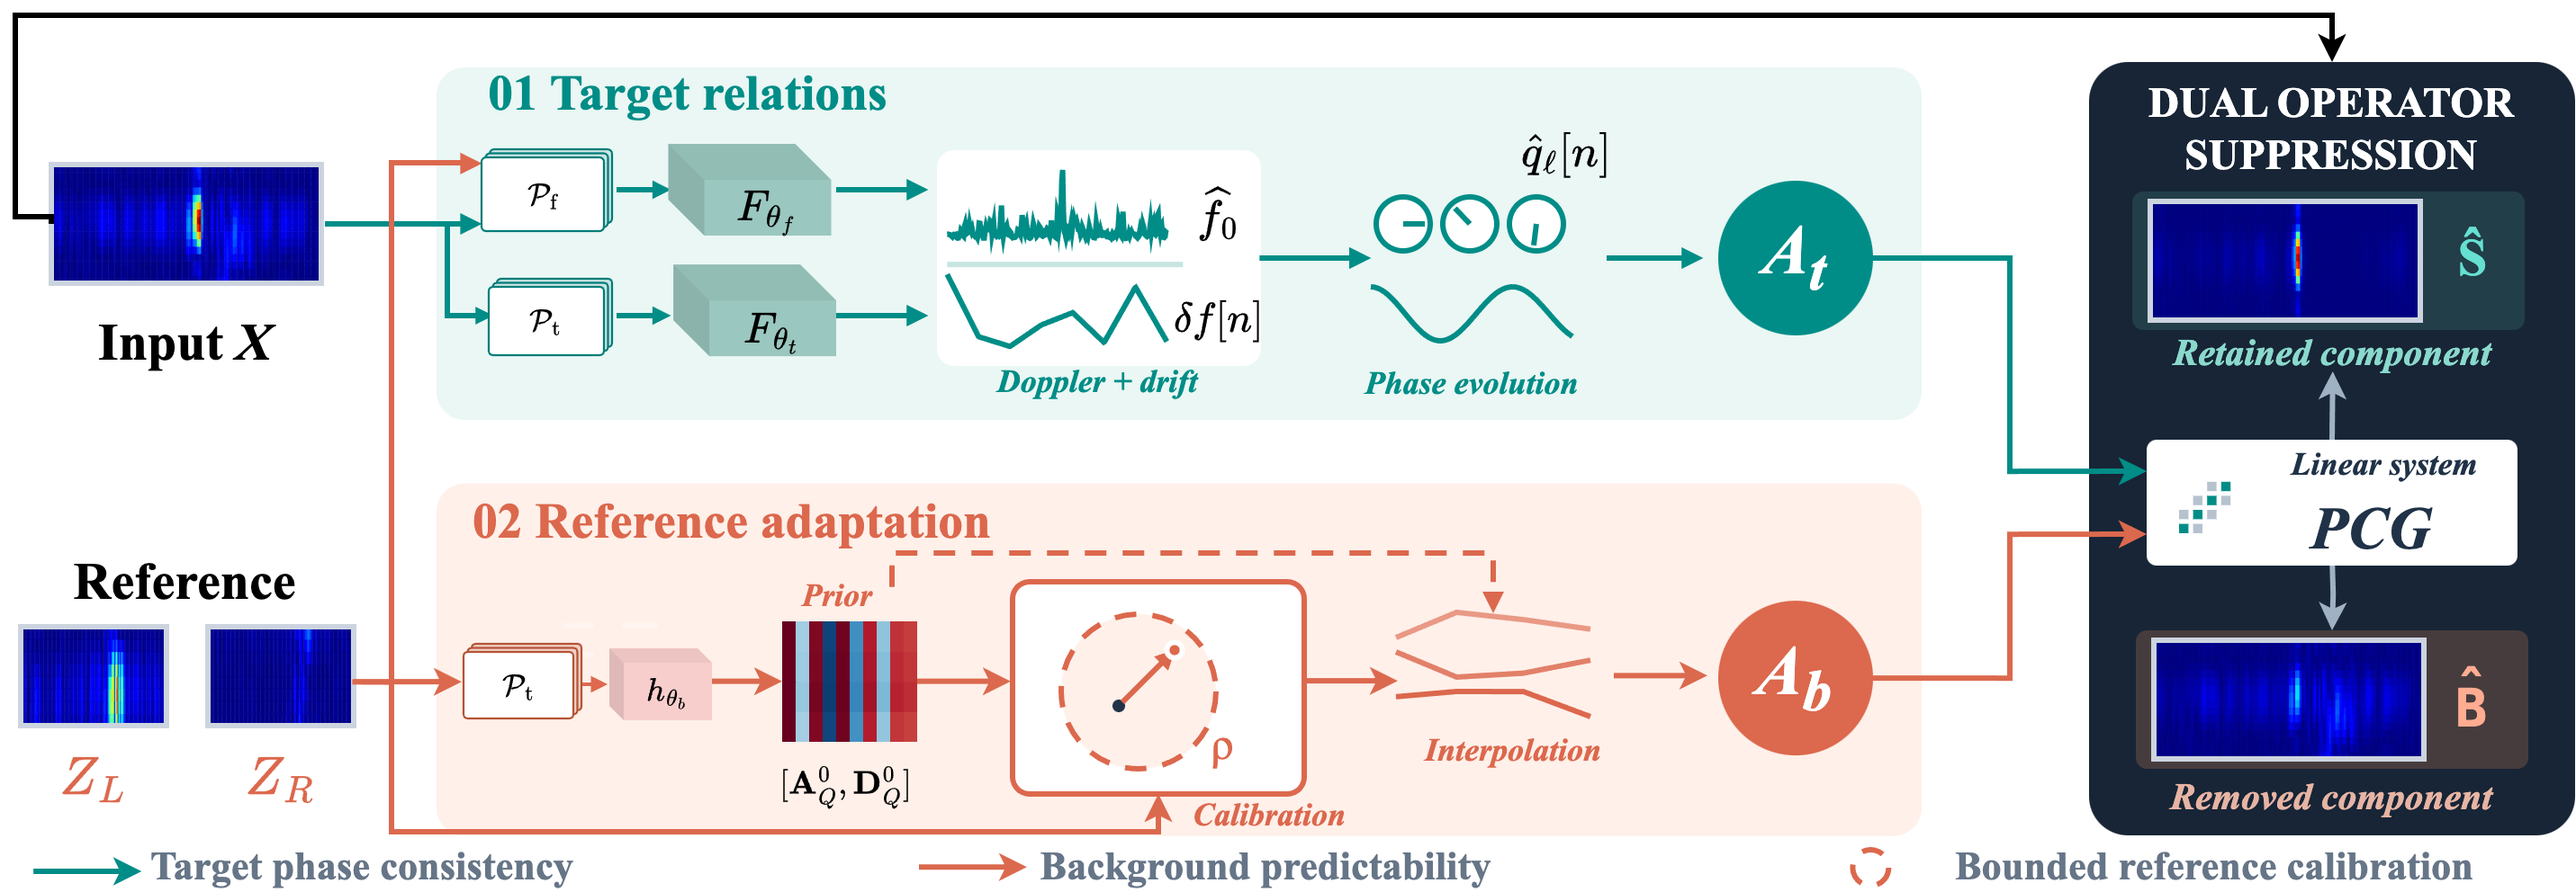
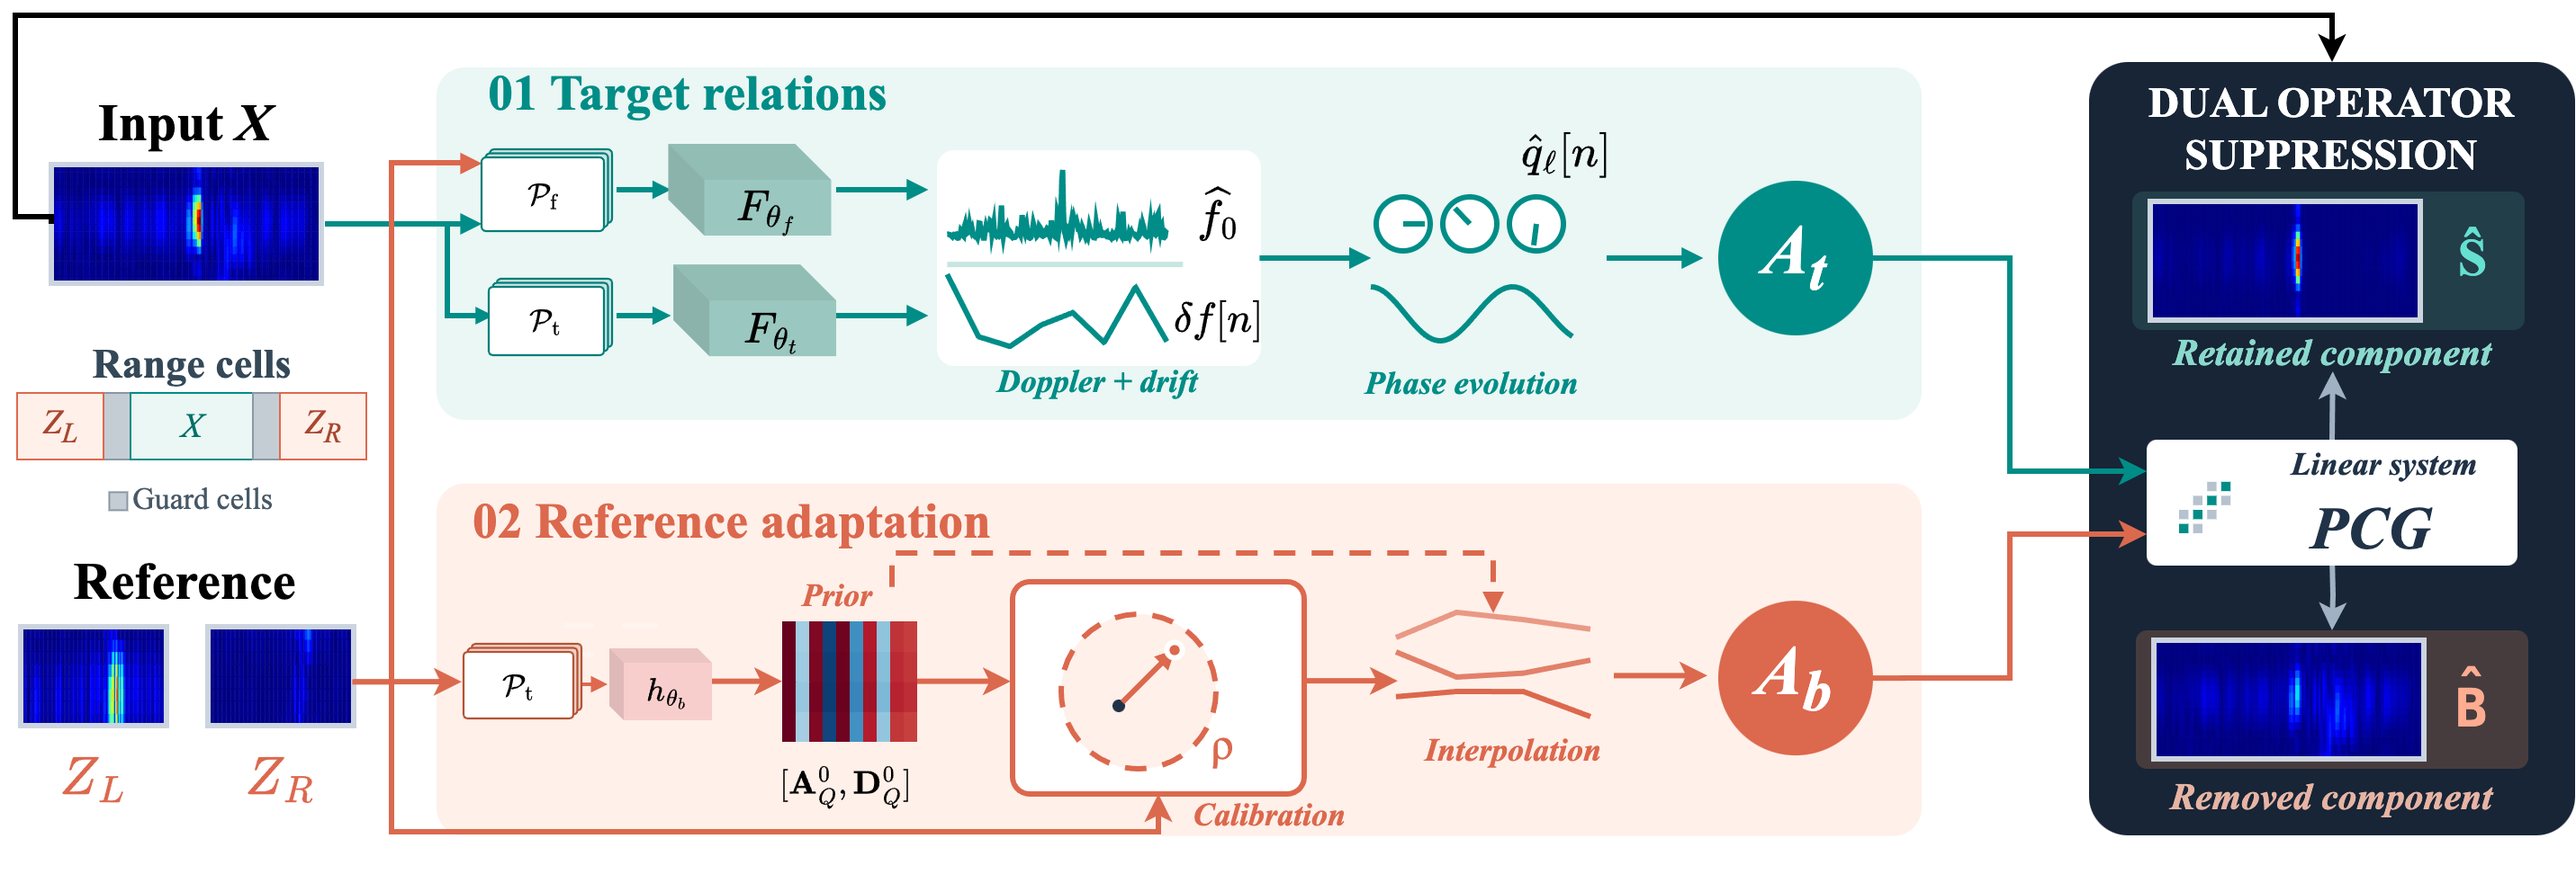
Sync manuscript title, abstract and framework figure

diff --git a/README.md b/README.md
@@ -1,8 +1,8 @@
 # RG-SCS
 
-**Relation-Guided Sea Clutter Suppression with Joint Target and Background Constraints**
+**Sea Clutter Suppression via Relation-Guided Complementary Constraints**
 
-Sea clutter superimposed on target echoes degrades maritime target detection, making effective suppression essential. However, conventional model-based methods can suffer from mismatch under nonstationarity, while deep learning methods relying solely on learned mappings leave target and clutter relations implicit. We propose Relation-Guided Sea Clutter Suppression (RG-SCS). It learns target phase evolution from complex echoes and calibrates clutter prediction relations using neighboring references. Complementary constraints couple target consistency of retained components with clutter consistency of removed components through quadratic optimization, balancing target preservation and clutter suppression. The associated complex linear system is solved using the preconditioned conjugate gradient (PCG) method. Extensive experiments on measured radar data demonstrate effective clutter attenuation and improved target visibility.
+Sea clutter superimposed on target echoes degrades maritime target detection, making effective suppression essential. However, conventional model-based methods can suffer from mismatch under nonstationarity, while deep learning methods relying solely on learned mappings leave target and clutter relations implicit, which can lead to target attenuation or residual clutter when their spectra overlap. We propose Relation-Guided Sea Clutter Suppression (RG-SCS). It learns target phase evolution from complex echoes and calibrates clutter prediction relations using neighboring references. Complementary constraints couple target consistency of retained components with clutter consistency of removed components through quadratic optimization, balancing target preservation and clutter suppression. Quadratic optimality yields a complex linear system solved by preconditioned conjugate gradient (PCG). Extensive experiments on measured radar data demonstrate effective clutter attenuation and improved target visibility. Source code is available at https://github.com/miraclebai/RG-SCS.
 
 ![RG-SCS framework showing target phase estimation, reference-based clutter calibration and joint recovery](assets/framework.png)
 
